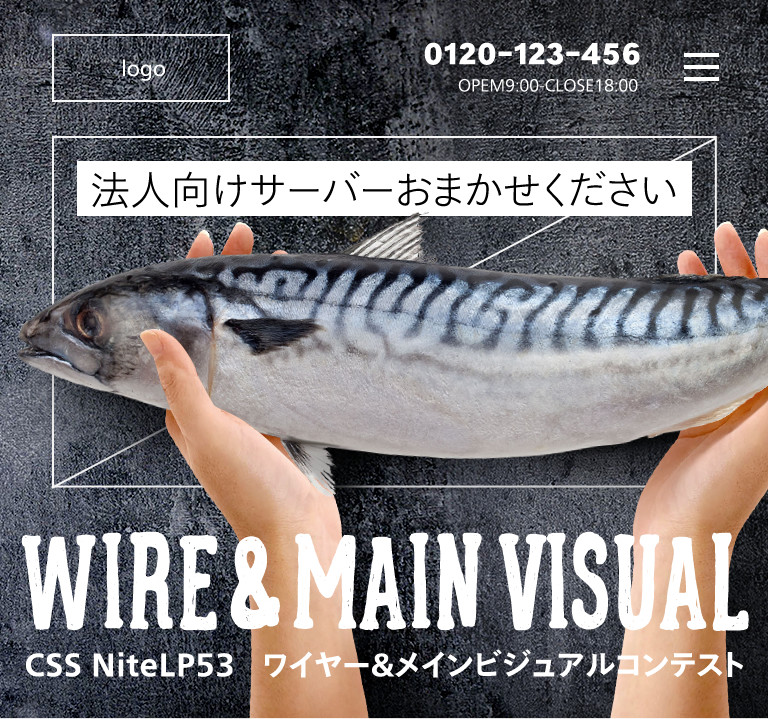
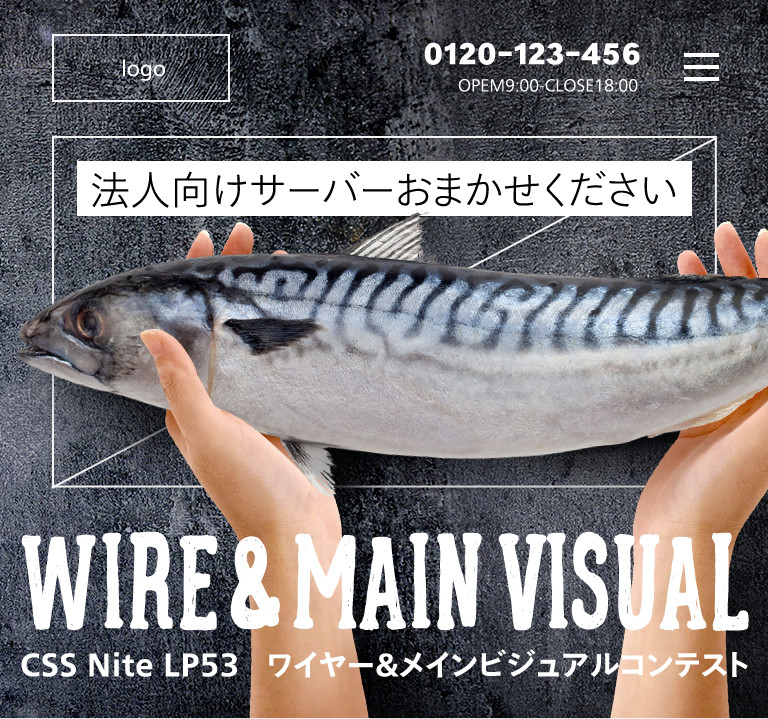
mod

Changed region(s): [[0.3438, 0.8873, 0.9688, 0.9485], [0.0312, 0.8873, 0.3125, 0.9485]]

diff --git a/index.html b/index.html
@@ -45,18 +45,18 @@
 			
 		<div class="overview">
 		<p>
-			2017年9月30日に東京で行われる、CSS Nite lp53「ワイヤーフレームとビジュアルデザインの間の深くて暗い闇」内で開催される参加型企画、「ワイヤーフレームコンテスト」「バナーくるくる会出張編」の概要です。次の二つのコースから、お題に沿って制作して応募してください。</p>
-			<p>バナーくるくる会には、矢野りんさんと角田綾佳さんによる合評、ワイヤーコンテストには商品もありますので、奮ってご参加ください。</p>
+			2017年9月30日に東京で行われる、CSS Nite LP53「ワイヤーフレームとビジュアルデザインの間の深くて暗い闇」内で開催される参加型企画、「ワイヤーフレームコンテスト」「バナーくるくる会出張編」の概要です。次の二つのコースから、お題に沿って制作し、応募してください。</p>
+			<p>バナーくるくる会には、矢野りんさんと角田綾佳さんによる合評、ワイヤーコンテストには商品もありますので、ふるってご参加ください。</p>
 			</div>
 			
 		<div class="flexbox">
 			<div class="box">
 				<p><img src="images/wire.png"></p>
-				<p>ワイヤーコンテストのお題です。現状LPの課題や問題点を解決する、LPのワイヤーを制作してください。</p>
+				<p>ワイヤーコンテストのお題です。<br />現状の課題や問題点を解決する、LPのワイヤーフレームを制作してください。</p>
 			</div>
 			<div class="box">
 				<p><img src="images/visual.png"></p>
-				<p>バナーくるくる会出張版のお題です。現状LPのメイン部分のビジュアルを、リデザインしてください。</p>
+				<p>バナーくるくる会出張版のお題です。<br />現状LPのメイン部分のビジュアルを、リデザインしてください。</p>
 			</div>
 		</div>
 			
@@ -64,8 +64,10 @@
 		
 		
 		<section class="contents02 bg">
+			<div class="color">
 			<h1>課題内容</h1>
 			<div class="box2">
+			<p class="lp"><img src="images/lp.jpg"></p>
 			
 			<div class="flexbox">
 				<h2>テーマ</h2>
@@ -76,22 +78,22 @@
 
 			<div class="flexbox">
 				<h2>打ち出したい要素</h2>
-				<ul class="big">
+				<ul>
 					<li>法人向けサーバーであること（実際に契約者における法人利用率9割以上）</li>
 					<li>安心と信頼感 ≒ KDDIブランド</li>
 				</ul>
 			</div>
 			<div class="flexbox">
 				<h2>目的</h2>
-				<ul class="big">
+				<ul>
 					<li>CVポイントはサービスサイト、および10日間無料への誘導</li>
 					<li>見込み顧客の興味、関心喚起</li>
 				</ul>
 			</div>
 			<div class="flexbox">
 				<h2>現状の課題</h2>
-				<ul class="big">
-					<li>ビジネス利用、法人向けとしてブランディングしていきたいが、キャラクター多用や全体的にPOPな色使いになっていて、to C向け商材のようなイメージがある</li>
+				<ul>
+					<li>ビジネス利用、法人向けとしてブランディングしていきたいが、キャラクター多用や全体的にポップな色使いになっていて、to C向け商材のようなイメージがある</li>
 					<li>各項目での説明や注釈が多く、LPというより商品説明ページになっている</li>
 					<li>スマホ非対応</li>
 				</ul>
@@ -99,7 +101,7 @@
 			<div class="flexbox">
 				<h2>構成</h2>
 				<p>一般的なLPの構成と同様<br />
-（PRポイント→悩みの解決→料金→申込フロー→導入事例 or 顧客の声。。など）<br />
+（PRポイント→悩みの解決→料金→申込フロー→導入事例 or 顧客の声…など）<br />
 上記ポイントにおける構成や各項目、訴求点などの要素は、現状のLPと同様で構わない。</p>
 			</div>
 			<div class="flexbox">
@@ -111,6 +113,7 @@
 			<div class="button">
 				<a href="#wire">ワイヤーフレームの募集要項を見る</a>
 				<a href="#visual">メインビジュアルの募集要項を見る</a>
+			</div>
 			</div>
 			
 		</section>
@@ -138,7 +141,7 @@
 				<h2>応募方法</h2>
 				<ul>
 					<li>PDFもしくは画像にしたものをお送りください。</li>
-					<li>invision等のオンラインサービスを利用されている場合は、URLの指定のみでも可</li>
+					<li>Invision等のオンラインサービスを利用されている場合は、URLの指定のみでも可</li>
 				</ul>
 			</div>
 			<div class="flexbox">
@@ -199,7 +202,7 @@
 			<div class="flexbox">
 				<h2>制作規定</h2>
 				<ul>
-					<li>横3000px以内、縦700px程度まで（意図があればオーバーしてOK）</li>
+					<li>横3000px以内、縦700px程度（意図があればオーバーしてOK）</li>
 					<li>png、jpgなどの静止画</li>
 					<li>使用する写真、イラストは著作権上問題のないものでお願いします（購入した素材はOK）</li>
 				</ul>
@@ -211,9 +214,9 @@
 				※ロゴの使用はコンテストの制作のみとしてください、取り扱いは同包のpdfを確認してください</p>
 			</div>
 			<div class="flexbox">
-				<h2>合評</h2>
-				<p>CSS Nite LP53当日のセッションで、矢野りんさん、角田綾佳さんの二人による合評が行われます。見るだけでも楽しめますが、同じ課題に取り組んだ方が、より気づきが多いものになります。時間は少ないですが、ぜひ考えてみてください。<br /><br />
-					※賞品はありません、ごめんなさい！
+				<h2>表彰および賞金</h2>
+				<p>CSS Nite LP53当日のセッションで、矢野りんさん、角田綾佳さんの二人による合評が行われます。見るだけでも楽しめますが、同じ課題に取り組んだ方が、より気づきが多いものになります。<br /><br />
+					お二人のピックアップした作品の応募者には、書籍をプレゼントします。ぜひご応募ください！
 				</p>
 			</div>
 			<div class="flexbox">
@@ -223,9 +226,11 @@
 			<div class="flexbox">
 				<h2>応募方法</h2>
 				<p><a href="https://www.behance.net" target="_blank">Adobe Behance</a>を利用して、応募ください</p>
-				</div>
-				<div>
-			<img src="images/behance.png" alt="behance" width="800" height="531">
+			</div>
+			<div>
+					<p>
+					<img src="images/behance.png" alt="behance" width="800" height="531">
+				</p>
 			<ol>
 				<li><a href="https://www.behance.net" target="_blank">Adobe Behance</a>に会員登録、ログインしてください</li>
 				<li>「プロジェクトを作成」からビジュアルをアップロードしてください</li>

diff --git a/style.css b/style.css
@@ -52,7 +52,7 @@ ul,ol{
 	text-align:center;
 }
 /*大きい*/
-@media only screen and (min-width: 1024px){
+@media only screen and (min-width: 1241px){
 .hero{
 	background-image:url("images/main.jpg") no-repeat;
 	background-position:top center; 
@@ -65,15 +65,35 @@ ul,ol{
 }
 .contents01 p{
 	margin: 40px auto;
+	font-weight: bold;
 }
-.content02{
-	margin: 60px auto;
-	padding: 40px 0;
-	background: #f8f8f8;
+.contents02{
+	padding: 0;
+	margin: 80px auto;
+}
+.lp{
+	width: 400px;
+	height: 1146px;
+	position: absolute;
+	top:-280px;
+	left:-160px;
+	content: url(images/lp.jpg) no-repeat;
 }
 .bg{
-	background: #f8f8f8;
-	padding: 20px 0;
+	background-color: rgba(59,70,117,0.1);
+	padding: 1px;
+	}
+.box2{
+	width: 900px;
+	position: relative;
+	}
+.color{
+	margin: 0 auto;
+	position: relative;
+}
+	
+.bg .flexbox{
+	margin-left: 200px;
 }
 .contents02 h2{
 	width: 25%;
@@ -98,7 +118,7 @@ ul,ol{
 	line-height:1.8em;
 }
 .box2{
-	width: 800px;
+	width: 900px;
 	margin: 0 auto;
 }
 
@@ -115,14 +135,20 @@ ul,ol{
 .contents02 .flexbox{
 	border-bottom:1px #333 solid;
 	}
+.contents02 .flexbox:last-child{
+	border-bottom:none;
+	}
 .contents02 h1{
 	margin-bottom: 60px;
 	margin-top: 100px;
 	}
 .contents02 .button{
-	margin: 40px auto;
+	margin: 40px auto 0 auto;
 	width: 900px;
+	padding-bottom: 80px;
 	display: flex;
+	position: relative;
+	z-index: 1000;
 	}
 .contents02 .button a{
 	width: 100%;
@@ -184,5 +210,12 @@ ul,ol{
 .content{
 	width: 90%;
 	margin: 0 auto;
+}
+.lp{
+	display: none;
+}
+.box{
+	width: 100%;
+	text-align: center;
 }
 }
